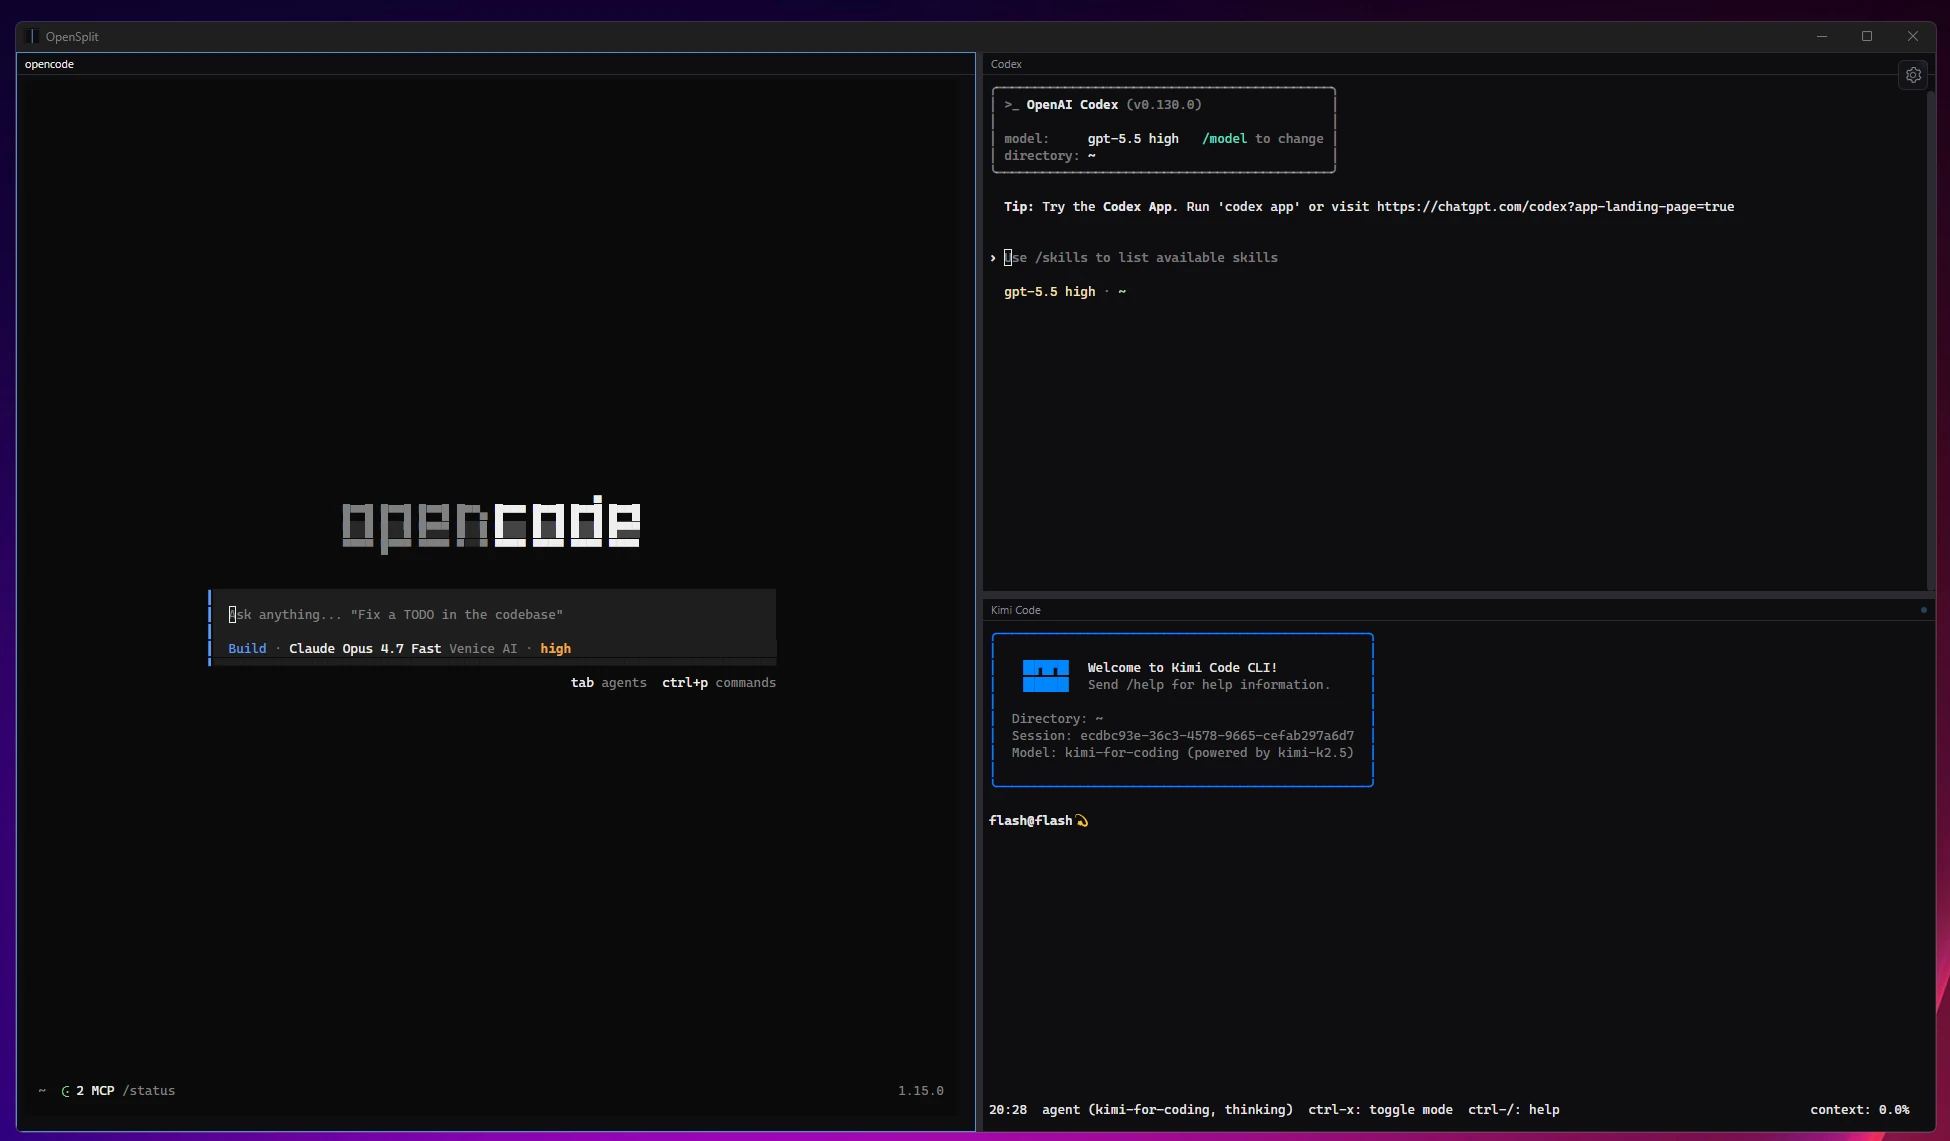
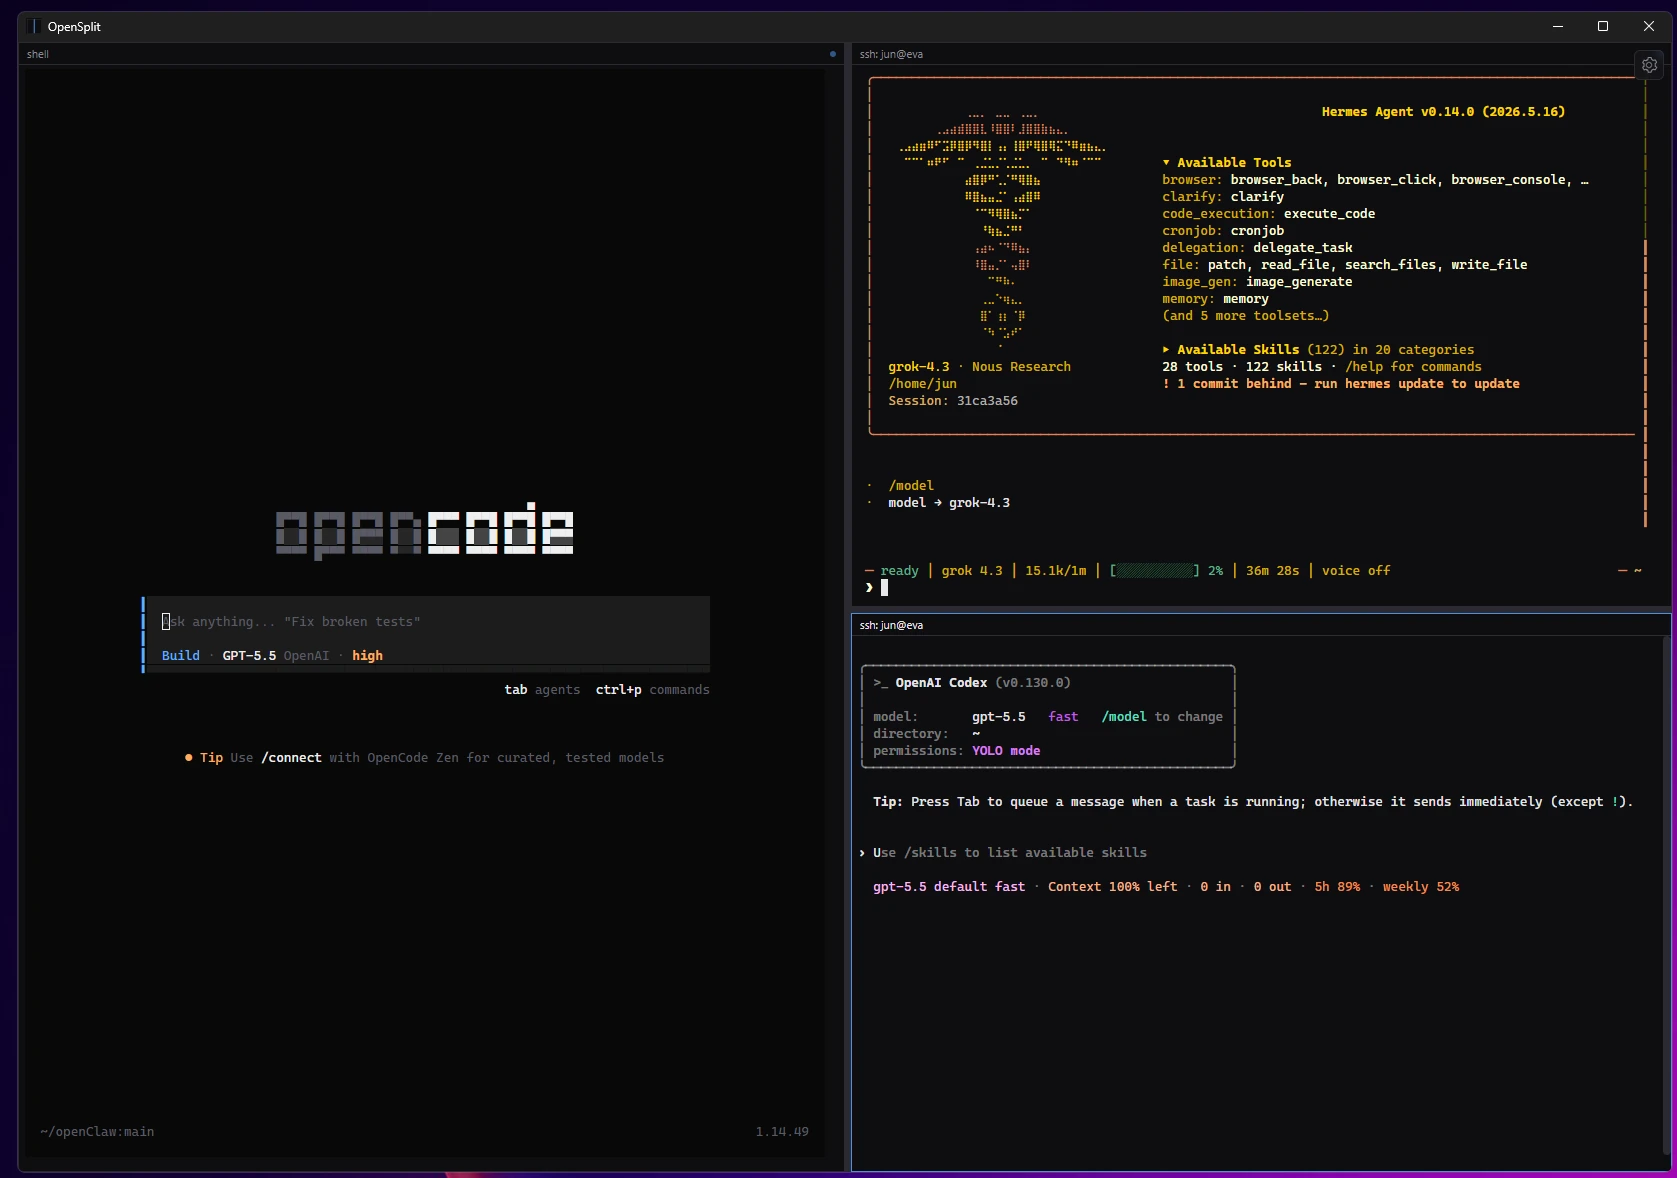
Update split screenshot for Hermes example

diff --git a/README.md b/README.md
@@ -10,9 +10,9 @@ Built with Rust + Tauri 2 + Svelte 5 + xterm.js. Ships as a single native binary
 
 *Launcher picker: OpenSplit detects installed AI tools (opencode, Codex, Claude Code, Gemini CLI, Kimi Code, and your system shell) and presents them as a keyboard-navigable grid. Press 1–6 to quick-pick, or check "Remember this as my default" to skip the picker next time.*
 
-![Three-pane split — opencode, Codex, and Kimi Code running side by side](sc2.webp)
+![Three-pane split — opencode, Codex, and Hermes running side by side](sc2.webp)
 
-*Three-pane layout: opencode on the left, Codex CLI top-right, Kimi Code CLI bottom-right. Right-click any pane to split again, switch to a different tool, copy/paste, or close.*
+*Three-pane layout: opencode on the left, Codex CLI top-right, and Hermes bottom-right. Right-click any pane to split again, switch to a different tool, copy/paste, or close.*
 
 ## Download
 